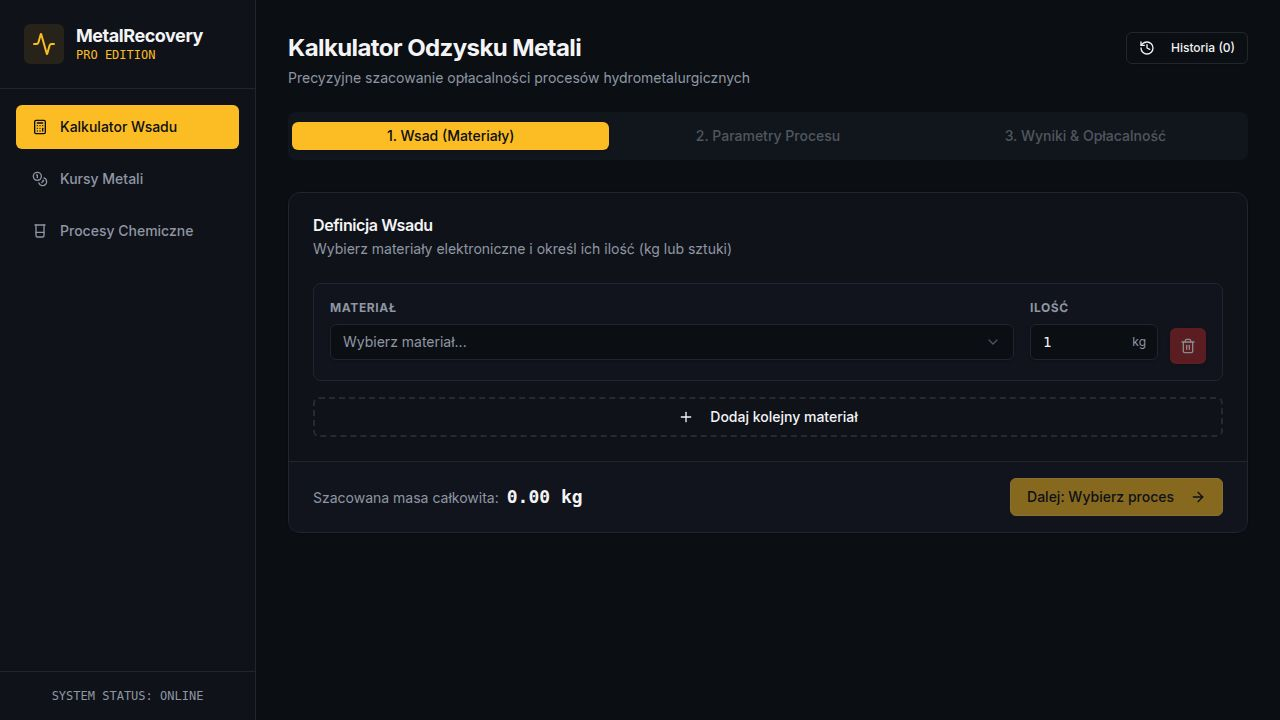
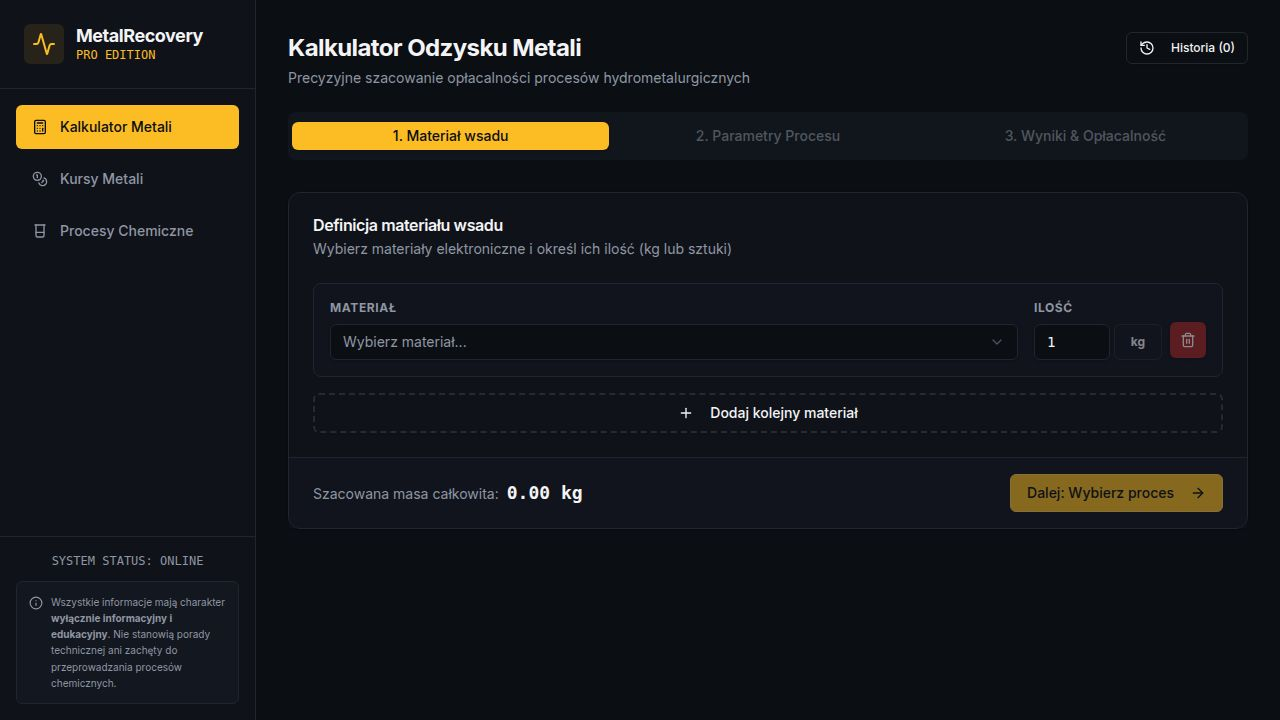
Improve material selection and recovery calculations on the processes page
Refactor the Processes page to use `useRef` for material data to prevent flicker during re-renders, `useMemo` for optimized calculations of selected material and estimated recovery, and add a `key` prop to the recovery section to ensure proper reconciliation. Also, updated event handling for concentration overrides.

Replit-Commit-Author: Agent
Replit-Commit-Session-Id: 4199d5f0-b2d0-4ee8-ab1b-c63d18fb6c6a
Replit-Commit-Checkpoint-Type: full_checkpoint
Replit-Commit-Event-Id: 19281686-5e1a-4166-922f-2a641b41aa97
Replit-Commit-Screenshot-Url: https://storage.googleapis.com/screenshot-production-us-central1/04df8337-4563-4548-bfee-2e1025db6e71/4199d5f0-b2d0-4ee8-ab1b-c63d18fb6c6a/iapCG0q
Replit-Helium-Checkpoint-Created: true

diff --git a/artifacts/metals-calculator/src/pages/Processes.tsx b/artifacts/metals-calculator/src/pages/Processes.tsx
@@ -1,4 +1,4 @@
-import { useState } from "react";
+import { useState, useMemo, useRef } from "react";
 import { useGetChemicalProcesses, getGetChemicalProcessesQueryKey, useGetElectronicMaterials, getGetElectronicMaterialsQueryKey } from "@workspace/api-client-react";
 import { Card, CardContent } from "@/components/ui/card";
 import { Badge } from "@/components/ui/badge";
@@ -59,34 +59,53 @@ export function ProcessesPage() {
     query: { queryKey: getGetChemicalProcessesQueryKey() }
   });
 
-  const { data: materials } = useGetElectronicMaterials({
+  const { data: materialsRaw } = useGetElectronicMaterials({
     query: { queryKey: getGetElectronicMaterialsQueryKey() }
   });
 
-  const selectedProcess = selectedId
-    ? processes?.find(p => p.id === selectedId) ?? processes?.[0]
-    : processes?.[0];
+  // Keep a stable reference to materials — avoids flicker when React Query briefly
+  // returns undefined during background re-fetch, which caused selectedMaterial to
+  // become null and estimatedRecovery to disappear / not update on material change.
+  const materialsRef = useRef(materialsRaw);
+  if (materialsRaw) materialsRef.current = materialsRaw;
+  const materials = materialsRef.current;
 
-  const selectedMaterial = selectedMaterialId
-    ? materials?.find(m => m.id === selectedMaterialId) ?? null
-    : null;
+  const selectedProcess = useMemo(
+    () => selectedId
+      ? processes?.find(p => p.id === selectedId) ?? processes?.[0]
+      : processes?.[0],
+    [selectedId, processes]
+  );
 
-  const totalReagentCost = selectedProcess
-    ? selectedProcess.reagents.reduce((sum, r) => {
-        const amt = getAdjustedAmount(r, batchKg, concentrationOverrides);
-        const price = getAdjustedPricePerL(r, concentrationOverrides);
-        return sum + amt * price;
-      }, 0)
-    : 0;
+  const selectedMaterial = useMemo(
+    () => selectedMaterialId && materials
+      ? materials.find(m => m.id === selectedMaterialId) ?? null
+      : null,
+    [selectedMaterialId, materials]
+  );
 
-  const estimatedRecovery = selectedMaterial && selectedProcess
-    ? {
-        Au: selectedMaterial.metalContentPerKg.Au.typical * batchKg * selectedProcess.yieldPercent.Au / 100,
-        Ag: selectedMaterial.metalContentPerKg.Ag.typical * batchKg * selectedProcess.yieldPercent.Ag / 100,
-        Pt: selectedMaterial.metalContentPerKg.Pt.typical * batchKg * selectedProcess.yieldPercent.Pt / 100,
-        Pd: selectedMaterial.metalContentPerKg.Pd.typical * batchKg * selectedProcess.yieldPercent.Pd / 100,
-      }
-    : null;
+  const totalReagentCost = useMemo(
+    () => selectedProcess
+      ? selectedProcess.reagents.reduce((sum, r) => {
+          const amt = getAdjustedAmount(r, batchKg, concentrationOverrides);
+          const price = getAdjustedPricePerL(r, concentrationOverrides);
+          return sum + amt * price;
+        }, 0)
+      : 0,
+    [selectedProcess, batchKg, concentrationOverrides]
+  );
+
+  const estimatedRecovery = useMemo(
+    () => selectedMaterial && selectedProcess
+      ? {
+          Au: selectedMaterial.metalContentPerKg.Au.typical * batchKg * selectedProcess.yieldPercent.Au / 100,
+          Ag: selectedMaterial.metalContentPerKg.Ag.typical * batchKg * selectedProcess.yieldPercent.Ag / 100,
+          Pt: selectedMaterial.metalContentPerKg.Pt.typical * batchKg * selectedProcess.yieldPercent.Pt / 100,
+          Pd: selectedMaterial.metalContentPerKg.Pd.typical * batchKg * selectedProcess.yieldPercent.Pd / 100,
+        }
+      : null,
+    [selectedMaterial, selectedProcess, batchKg]
+  );
 
   if (isLoading) {
     return (
@@ -122,7 +141,7 @@ export function ProcessesPage() {
           return (
             <button
               key={process.id}
-              onClick={() => setSelectedId(process.id)}
+              onClick={() => { setSelectedId(process.id); setConcentrationOverrides({}); }}
               className={cn(
                 "shrink-0 snap-start px-3 py-2 rounded-md border text-left transition-colors",
                 isSelected
@@ -150,7 +169,7 @@ export function ProcessesPage() {
             return (
               <button
                 key={process.id}
-                onClick={() => setSelectedId(process.id)}
+                onClick={() => { setSelectedId(process.id); setConcentrationOverrides({}); }}
                 className={cn(
                   "w-full text-left px-3 py-2.5 rounded-md border transition-colors",
                   isSelected
@@ -285,7 +304,10 @@ export function ProcessesPage() {
                   </div>
                   <select
                     value={selectedMaterialId}
-                    onChange={e => setSelectedMaterialId(e.target.value)}
+                    onChange={e => {
+                      const id = e.currentTarget.value;
+                      setSelectedMaterialId(id);
+                    }}
                     className="w-full text-xs bg-background border border-border rounded px-2 py-1.5 text-foreground focus:outline-none focus:ring-1 focus:ring-primary/50"
                   >
                     <option value="">— wybierz materiał aby zobaczyć szacunkowy odzysk —</option>
@@ -384,7 +406,7 @@ export function ProcessesPage() {
                 </div>
 
                 {estimatedRecovery && selectedMaterial && (
-                  <div className="mt-4">
+                  <div key={selectedMaterialId} className="mt-4">
                     <h4 className="text-xs font-bold uppercase tracking-wider text-muted-foreground mb-2 flex items-center gap-1.5">
                       <Microscope className="w-3 h-3" />
                       Szac. odzysk: {selectedMaterial.name} × {batchKg} kg